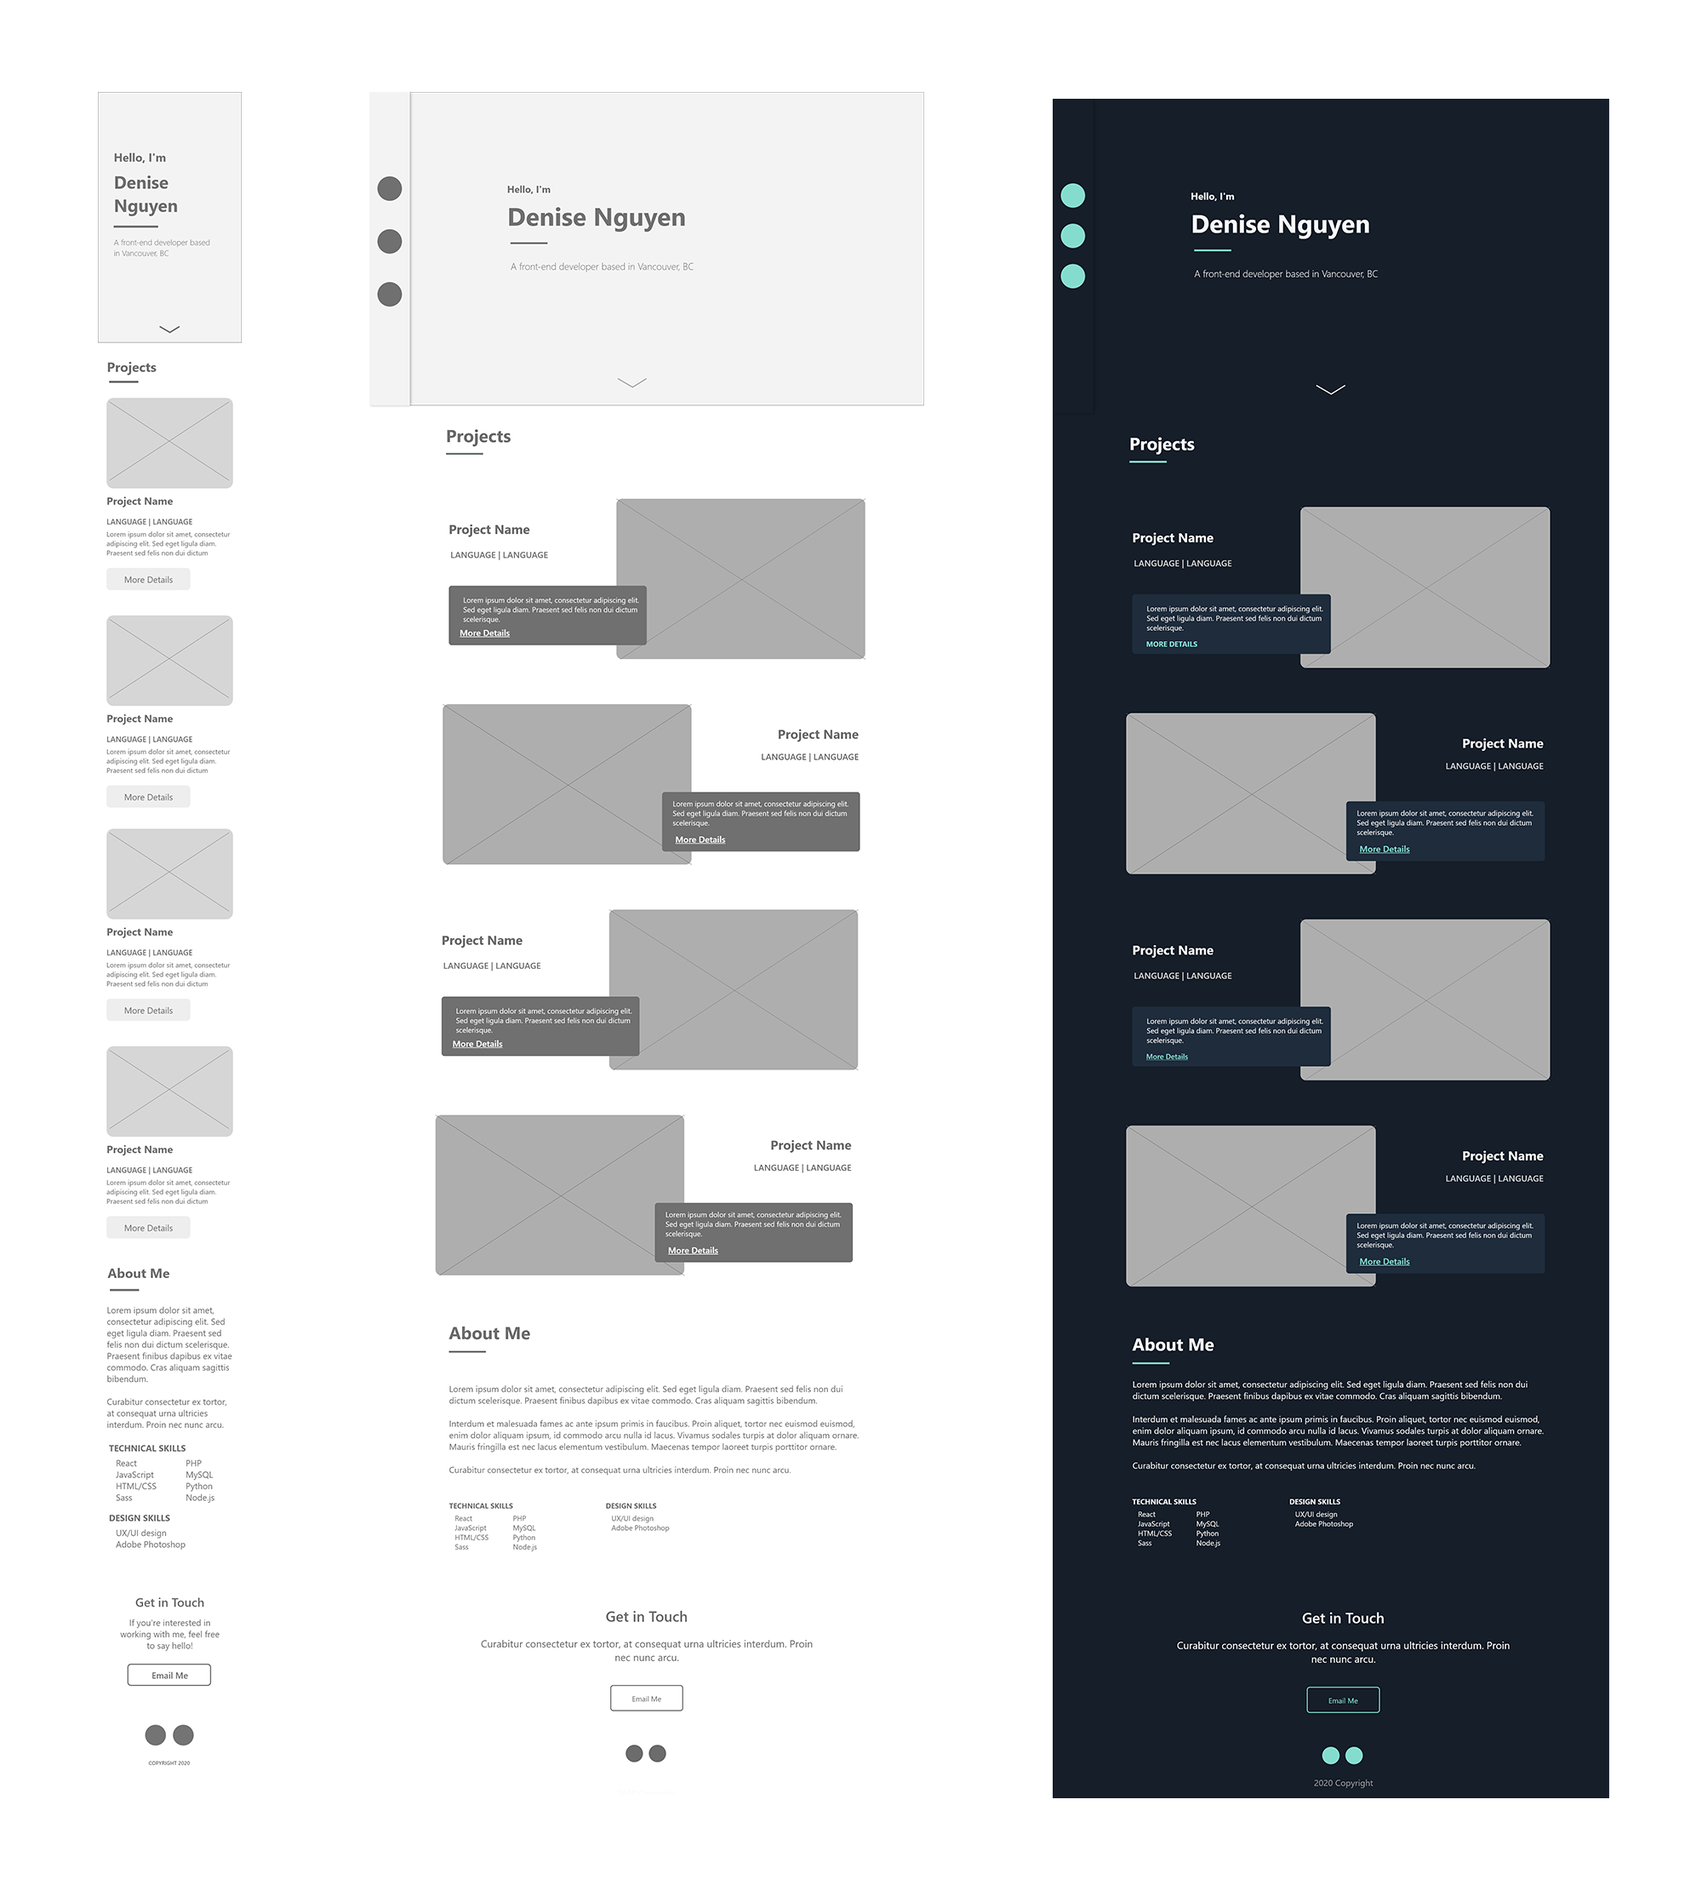
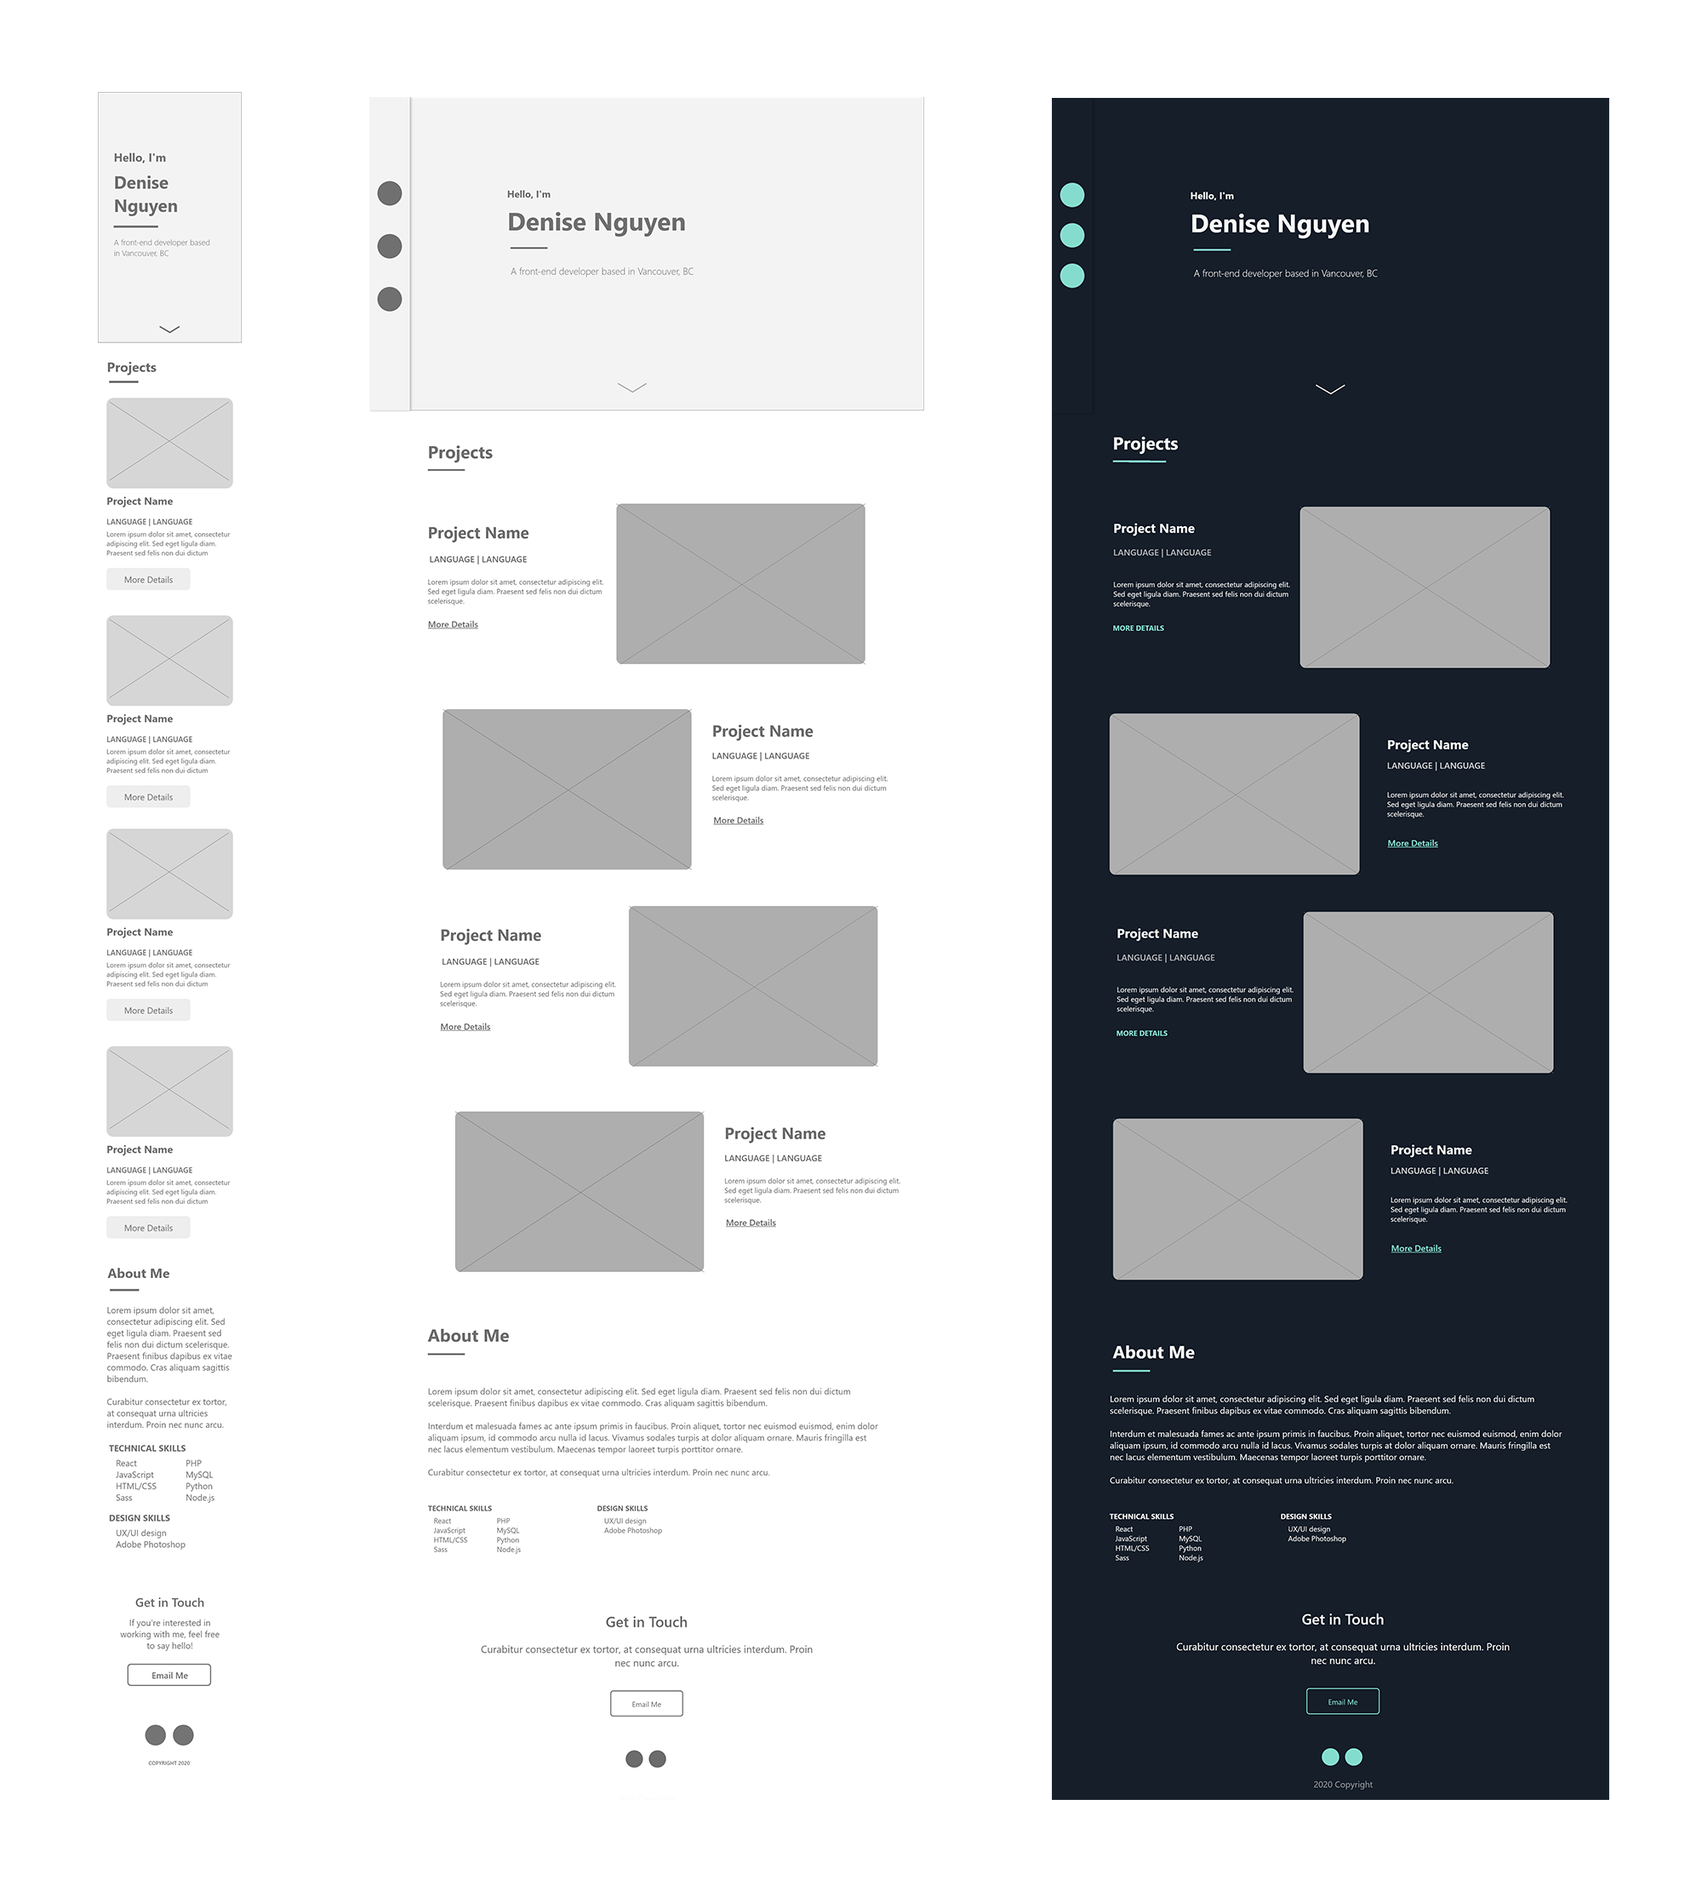
reformatted code for better accessability

diff --git a/src/components/About.js b/src/components/About.js
@@ -7,38 +7,39 @@ const About = () => {
             <Fade bottom>
                 <h1>About Me</h1>
                 <hr/>
-                
-                <div>
-                    <p>My name is Denise Nguyen and I am a web developer based in Vancouver, BC. I graduated from BCIT’s Computer Information Technology and Technical Web Designer Program. During my time, I developed a passion for web development from working on school projects and by working on software development projects sponsored by BCIT. I enjoy designing simple user interfaces, building web apps, and learning new technologies along the way.</p>
-                    <p>I had the opportunity to work as a UI/UX Designer in a summer internship where I was able to first experience designing and developing web applications in the working industry. My team and I went through the process of UX/UI development where we brainstormed, researched, and designed different prototypes for a project. After we agreed on a prototype, I developed a live version of this application using React.js. Based on my experience using React.js, I want to pursue more on the development side.</p>
-                    <p>Currently, I am seeking a web development job where I want to explore and challenge myself with new technologies and opportunities.</p>
-                </div>
-                
-            <div className="skills">
-                <div className="tech-skills">
-                    <h3>Technical Skills</h3>
-                    <ul>
-                        <li>React</li>
-                        <li>JavaScript</li>
-                        <li>HTML/CSS</li>
-                        <li>Sass</li>
-                        <li>PHP</li>
-                        <li>MySQL</li>
-                        <li>Node.js</li>
-                        <li>Python</li>
-                    </ul>
-                </div>
+                <div className="about-content">
+                    <section className="about-bio">
+                        <p>My name is Denise Nguyen and I am a web developer based in Vancouver, BC. I graduated from BCIT’s Computer Information Technology and Technical Web Designer Program. During my time, I developed a passion for web development from working on school projects and by working on software development projects sponsored by BCIT. I enjoy designing simple user interfaces, building web apps, and learning new technologies along the way.</p>
+                        <p>I had the opportunity to work as a UI/UX Designer in a summer internship where I was able to first experience designing and developing web applications in the working industry. My team and I went through the process of UX/UI development where we brainstormed, researched, and designed different prototypes for a project. After we agreed on a prototype, I developed a live version of this application using React.js. Based on my experience using React.js, I want to pursue more on the development side.</p>
+                        <p>Currently, I am seeking a web development job where I want to explore and challenge myself with new technologies and opportunities.</p>
+                    </section>
+                    
+                    <div className="skills">
+                        <section className="tech-skills">
+                            <h3>Technical Skills</h3>
+                            <ul>
+                                <li>React</li>
+                                <li>JavaScript</li>
+                                <li>HTML/CSS</li>
+                                <li>Sass</li>
+                                <li>PHP</li>
+                                <li>MySQL</li>
+                                <li>Node.js</li>
+                                <li>Python</li>
+                            </ul>
+                        </section>
 
-                <div className="design-skills">
-                    <h3>Design Skills</h3>
-                    <ul>
-                        <li>UX/UI design</li>
-                        <li>Adobe Photoshop</li>
-                        <li>Adobe Illustrator</li>
-                        <li>Adobe XD</li>
-                    </ul>
+                        <section className="design-skills">
+                            <h3>Design Skills</h3>
+                            <ul>
+                                <li>UX/UI design</li>
+                                <li>Adobe Photoshop</li>
+                                <li>Adobe Illustrator</li>
+                                <li>Adobe XD</li>
+                            </ul>
+                        </section>
+                    </div>
                 </div>
-            </div>
             </Fade>
         </div>
     );

diff --git a/src/components/SingleProject.js b/src/components/SingleProject.js
@@ -27,16 +27,13 @@ const SingleProject = (props) => {
                             </Fade>
                         </div>
 
-                        
+                        <div className="group">
                         <section className="project-overview">
                                 <h2>Overview</h2>
                                 <hr/>
                                 <p>{item.overview}</p>
                         </section>
                         
-
-                        
-                        <div className="group">
                             <section className="project-tools">
                                 <h2>Languages / Tools</h2>
                                 <hr/>
@@ -46,9 +43,23 @@ const SingleProject = (props) => {
                                         <li>{tags}</li>
                                     ))} 
                                 </ul>
-                                
-                                
                             </section>
+                        </div>
+
+                        {item.responsibilities &&
+                            <section className="project-resp">
+                                <h2>Responsibilities</h2>
+                                <hr/>
+
+                                <ul>
+                                    {item.responsibilities.map((responsibility, i) => (
+                                        <li>{responsibility}</li>
+                                    ))}
+                                </ul>
+                                
+                            </section> 
+                            
+                        }
 
                             {item.members &&
                             <section className="project-members">
@@ -63,24 +74,6 @@ const SingleProject = (props) => {
                                 </ul>
                                 
                             </section> 
-                        }
-                        </div>
-                        
-
-                        
-                        {item.responsibilities &&
-                            <section className="project-resp">
-                                <h2>Responsibilities</h2>
-                                <hr/>
-
-                                <ul>
-                                    {item.responsibilities.map((responsibility, i) => (
-                                        <li>{responsibility}</li>
-                                    ))}
-                                </ul>
-                                
-                            </section> 
-                            
                         }
                         
                         <section className="project-screenshots">

diff --git a/src/projects/ProjectCodium.js b/src/projects/ProjectCodium.js
@@ -1,5 +1,9 @@
 import React from 'react';
 import Project from '../pages/Project';
+import styleGuide from '../images/codium/style.png';
+import scAbout from '../images/codium/about.png';
+import scCourse from '../images/codium/course.png';
+import scInstructor from '../images/codium/instructor.png';
 
 const CodiumCode = `
 export default class ListItem extends Component {
@@ -77,7 +81,7 @@ const projectInfo = [
         overview: 'Codium was built with WordPress and PHP for a collaborative group project at BCIT’s Technical Web Designer program. The website is an online coding school that offers courses such as HTML, JavaScript, Python, and many more. The courses are offered in the form of videos, quizzes, and supplemental materials for students to download. In order to do that, my team and I used Woocommerce and Sensei to implement that feature. The design is professional and trustworthy but also warm and welcoming for new students.',
         responsibilities: ['Contributed in making wireframes', 'Created courses using Sensei LMS plugin', 'Connected courses to Woocommerce products', 'Developed and styled courses page' ],
         members: ['Darrien Chow', 'Tin Lau', 'Wynonna Moo', 'Tiffany Tang'],
-        screenshots: [],
+        screenshots: [styleGuide, scAbout, scCourse, scInstructor],
         codeDesc: '',
         codeSnippets: CodiumCode,
         liveSite: 'https://codium.bcitwebdeveloper.ca',

diff --git a/src/styles/pages/_project.scss b/src/styles/pages/_project.scss
@@ -21,6 +21,9 @@
     position: relative;
 
     .content {
+        p , li{
+            line-height: 1.7em;
+        }
         hr{
             margin-bottom: 20px;
         }
@@ -83,6 +86,9 @@
 }
 
 @media(min-width: $tabletBreakpoint){
+    .project-page{
+        max-width: 600px;
+    }
     .back-to-home {
         position: fixed;
         z-index: 999;
@@ -114,32 +120,15 @@
             padding-top: 20px;
             margin-bottom: 70px;
         }
-        // .project-landing {
-        //     background-color:$blueShade;
-        //     display: flex;
-        //     align-items: center; 
-        //     border-radius: 10px;
-        //     height: 90vh;
-        //     margin-bottom: 70px;
-           
-        //     .project-headings{
-        //         text-align: left;
-        //         padding: 35px;
-
-        //         .project-buttons {
-        //             text-align: left;
-        //         }
-        //     }
-        //     .feat-img {
-        //         height: 350px;
-
-        //     }
-        // } 
 
         .group{
             display: flex;
             .project-members{
                 margin-left: 300px;
+            }
+            .project-overview{
+                max-width: 550px;
+                margin-right: 150px;
             }
         }
 

diff --git a/public/index.html b/public/index.html
@@ -2,7 +2,7 @@
 <html lang="en">
   <head>
     <meta charset="utf-8" />
-    <link rel="icon" type="image/png" href="./favicon.png" sizes="32x32" />
+    <link rel="icon" type="image/png" href="./favicon-32x32.png" sizes="32x32" />
     <meta name="viewport" content="width=device-width, initial-scale=1" />
     <meta name="theme-color" content="#000000" />
     <meta
@@ -15,10 +15,6 @@
       user's mobile device or desktop. See https://developers.google.com/web/fundamentals/web-app-manifest/
     -->
     <link rel="manifest" href="%PUBLIC_URL%/manifest.json" />
-    <link rel="preload" href="../src/images/portfolio/mockups-portfolio.png" as="image">
-    <link rel="preload" href="../src/images/showtime/mockups/mockup.png" as="image">
-    <link rel="preload" href="../src/images/space-match/mockups-game.png" as="image">
-    <link rel="preload" href="../src/images/myfitplanner/myfitplanner.png" as="image">
     <!--
       Notice the use of %PUBLIC_URL% in the tags above.
       It will be replaced with the URL of the `public` folder during the build.

diff --git a/src/styles/components/_about.scss b/src/styles/components/_about.scss
@@ -1,3 +1,6 @@
+.about-bio {
+    line-height: 1.7em;
+}
 .skills{
     color: $textColor;
     margin-top: 40px;
@@ -5,11 +8,13 @@
         color: $blueColor;
     }
     .tech-skills {
+        margin-bottom: 40px;
         h3 {
             color: $blueColor;
         }
         ul {
             columns: 2;
+            line-height: 1.7em;
         }
     }
 
@@ -17,18 +22,27 @@
         h3 {
             color: $blueColor;
         }
+        ul {
+            line-height: 1.7em;
+        }
     }
 }
 
 @media(min-width: $desktopBreakpoint){
-    .skills {
+    .about-content {
         display: flex;
-        justify-content: space-between;
-        max-width: 600px;
+        .about-bio {
+            max-width: 700px;
+            margin-right: 90px;
+        }
 
-        .tech-skills{
-            ul {
-                width: 300px;
+        .skills {
+            margin-top: 0;
+    
+            .tech-skills{
+                ul {
+                    width: 300px;
+                }
             }
         }
     }

diff --git a/src/components/NavMenu.js b/src/components/NavMenu.js
@@ -14,9 +14,9 @@ class NavMenu extends Component {
                 <div className="nav-menu">
                   <nav>
                     <ul>
-                      <li onClick={(e) => this.handleClick(e, '#landing' )}><BsHouseFill/></li>
-                      <li onClick={(e) => this.handleClick(e, '#projects' )}><BsCodeSlash/></li>
-                      <li onClick={(e) => this.handleClick(e, '#about' )}><BsFillPersonFill/></li>
+                      <li onClick={(e) => this.handleClick(e, '#landing' )}><BsHouseFill title="Home"/></li>
+                      <li onClick={(e) => this.handleClick(e, '#projects' )}><BsCodeSlash title="Projects"/></li>
+                      <li onClick={(e) => this.handleClick(e, '#about' )}><BsFillPersonFill title="About"/></li>
                     </ul>
                   </nav>
                 </div>

diff --git a/src/components/Footer.js b/src/components/Footer.js
@@ -6,8 +6,8 @@ const Footer = () => {
     return (
         <div className="footer">
             <Fade bottom>
-            <a href="https://github.com/dnguyen19" target="_blank"><FaGithub/></a> 
-            <a href="https://www.linkedin.com/in/denise-nguyen-ba791a1aa/" target="_blank"><FaLinkedin/></a> 
+            <a href="https://github.com/dnguyen19" target="_blank"><FaGithub title="GitHub"/></a> 
+            <a href="https://www.linkedin.com/in/denise-nguyen-ba791a1aa/" target="_blank"><FaLinkedin title="LinkedIn"/></a> 
             <p>&copy; 2020 Denise Nguyen</p>
             </Fade>
         </div>

diff --git a/src/styles/components/_navmenu.scss b/src/styles/components/_navmenu.scss
@@ -79,6 +79,7 @@
                 li {
                     border-right: 2px solid rgba(255, 255, 255, 0);
                     transition: 0.2s;
+                    text-align: center;
                     &:hover {
                         border-right: 2px solid $blueColor;
                     }
@@ -88,4 +89,19 @@
         }
     }
     
+}
+
+@media(min-width: $desktopLargeBreakpoint){
+    .nav-menu{
+        width: 70px;
+        
+        nav {
+            width: 70px;
+            
+            svg {
+                height: 20px;
+                width: 20px;
+            }
+        }
+    }
 }

diff --git a/src/styles/components/_thumbnail.scss b/src/styles/components/_thumbnail.scss
@@ -21,6 +21,7 @@
     .desc {
         font-weight: 300;
         font-size: 1.1em;
+        line-height: 1.5em;
     }
 
 
